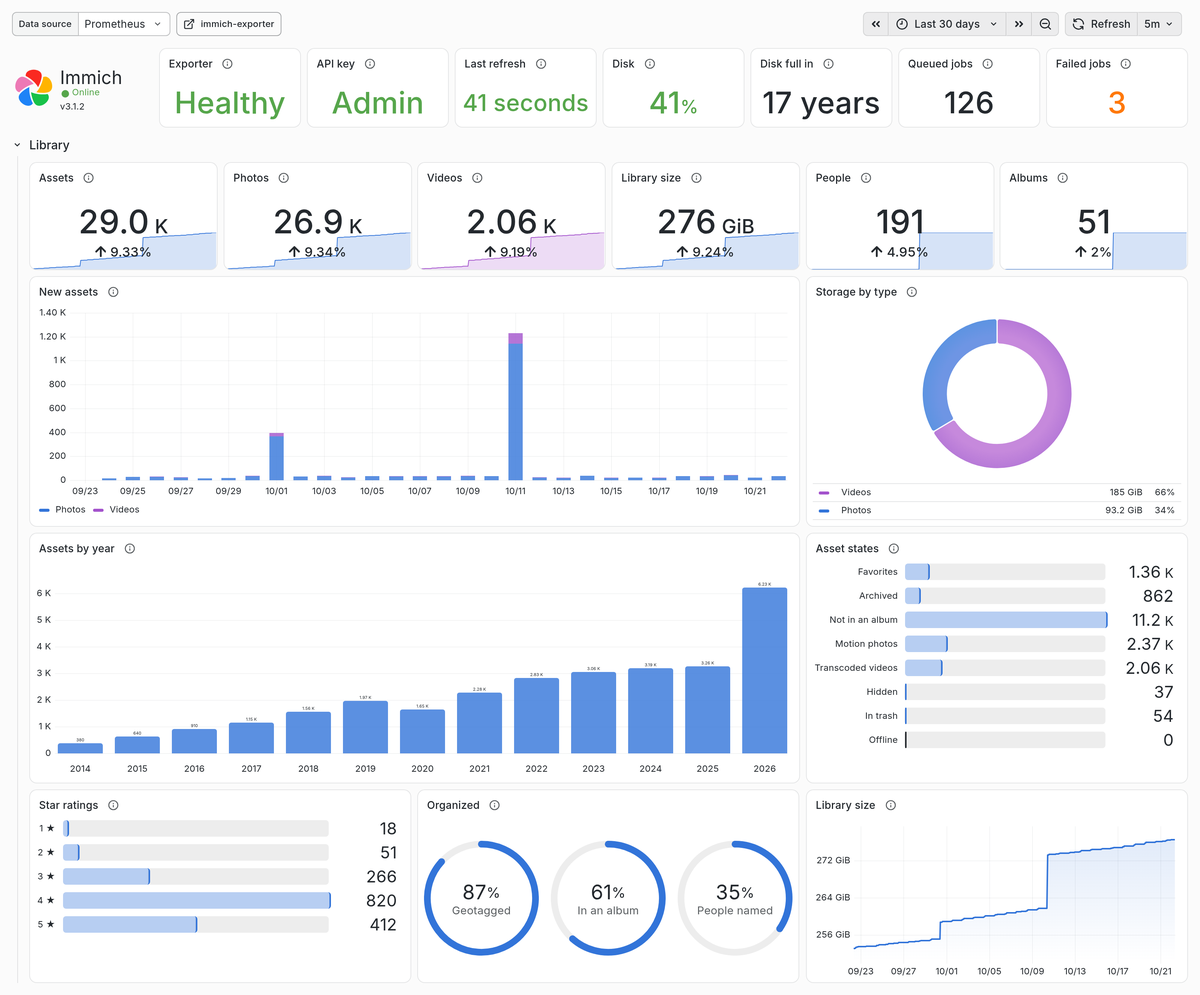
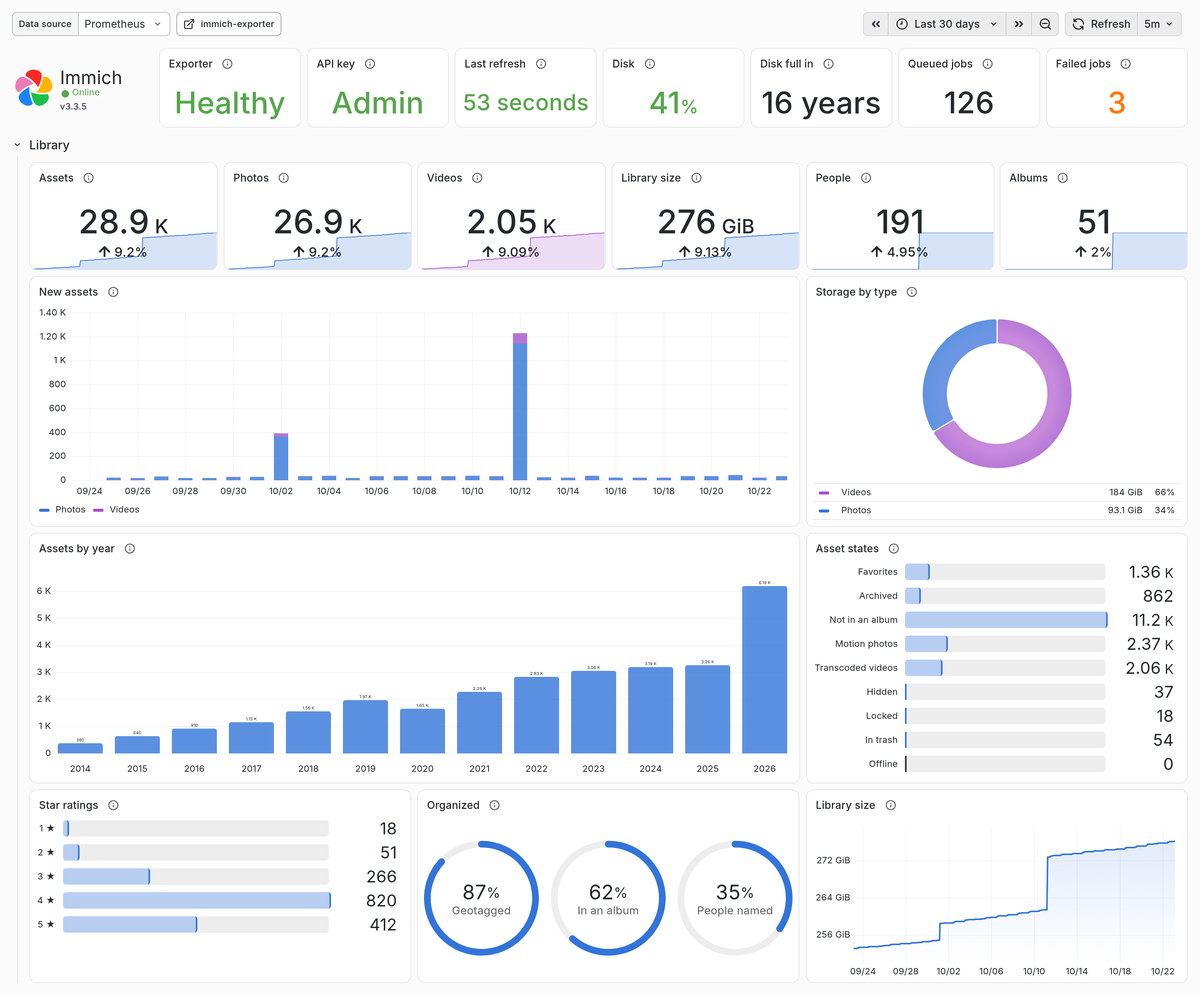
docs: simplify the README and refresh the dashboard screenshots (#27)

diff --git a/grafana/dashboard.go b/grafana/dashboard.go
@@ -642,7 +642,8 @@ func collectors() *panel {
 
 func more(l *layout) {
 	l.section("More", true)
-	l.line(5,
+	// Tall enough for Grafana to lay the tiles out in two rows, wide enough to keep a unit beside its value.
+	l.line(8,
 		span(24, grid("Library extras", "Remaining library counters.",
 			latest("max(immich_tags)", "Tags"),
 			latest("max(immich_tags_root)", "Top-level tags"),

diff --git a/README.md b/README.md
@@ -1,10 +1,10 @@
 # immich-exporter
 
-[![Go CI](https://github.com/moond4rk/immich-exporter/actions/workflows/ci.yml/badge.svg)](https://github.com/moond4rk/immich-exporter/actions/workflows/ci.yml) [![codecov](https://codecov.io/gh/moond4rk/immich-exporter/branch/main/graph/badge.svg)](https://codecov.io/gh/moond4rk/immich-exporter) [![Go Reference](https://pkg.go.dev/badge/github.com/moond4rk/immich-exporter.svg)](https://pkg.go.dev/github.com/moond4rk/immich-exporter) [![Go Report Card](https://goreportcard.com/badge/github.com/moond4rk/immich-exporter)](https://goreportcard.com/report/github.com/moond4rk/immich-exporter) [![License](https://img.shields.io/github/license/moond4rk/immich-exporter)](https://github.com/moond4rk/immich-exporter/blob/main/LICENSE)
+[![Go CI](https://github.com/moond4rk/immich-exporter/actions/workflows/ci.yml/badge.svg)](https://github.com/moond4rk/immich-exporter/actions/workflows/ci.yml) [![codecov](https://codecov.io/gh/moond4rk/immich-exporter/branch/main/graph/badge.svg)](https://codecov.io/gh/moond4rk/immich-exporter) [![Release](https://img.shields.io/github/v/release/moond4rk/immich-exporter)](https://github.com/moond4rk/immich-exporter/releases/latest) [![License](https://img.shields.io/github/license/moond4rk/immich-exporter)](LICENSE)
 
-A comprehensive Prometheus exporter for **Immich photo-library content** — ~100 metrics covering assets, cameras & EXIF, geography, people & faces, per-user storage & quota, albums & sharing, jobs, integrity checks, database backups, and server health. Ships with a large Grafana dashboard (world map included) and ready-made alert rules.
+A Prometheus exporter for what's inside your [Immich](https://immich.app) library: assets, cameras, places, people, storage, jobs and backups. It comes with a Grafana dashboard and alert rules.
 
-It is **complementary to Immich's built-in OpenTelemetry**: Immich's own telemetry exposes _performance_, never library _content_. All data is read from the public Immich REST API with an API key — the database is never touched.
+Immich's built-in telemetry measures how the server performs; this exporter reports what the library holds. It reads the Immich API with an API key and never touches the database.
 
 <picture>
   <source media="(prefers-color-scheme: light)" srcset="docs/images/dashboard-overview-light.webp">
@@ -12,7 +12,7 @@ It is **complementary to Immich's built-in OpenTelemetry**: Immich's own telemet
 </picture>
 
 <details>
-<summary>More of the dashboard: places, cameras, people, albums, users, jobs and server</summary>
+<summary>More screenshots</summary>
 
 <picture>
   <source media="(prefers-color-scheme: light)" srcset="docs/images/dashboard-geography-light.webp">
@@ -49,160 +49,88 @@ It is **complementary to Immich's built-in OpenTelemetry**: Immich's own telemet
   <img alt="Server & exporter" src="docs/images/dashboard-server.webp">
 </picture>
 
-</details>
+<picture>
+  <source media="(prefers-color-scheme: light)" srcset="docs/images/dashboard-more-light.webp">
+  <img alt="More" src="docs/images/dashboard-more.webp">
+</picture>
 
-Screenshots show a synthetic demo library, generated by [`grafana/demo`](grafana/demo).
+The screenshots show a synthetic demo library, generated by [`grafana/demo`](grafana/demo).
+
+</details>
 
 ## Features
 
-- **~100 content metrics** Immich's telemetry doesn't expose — assets by type/year/rating/state/file size, cameras & lenses, geo distribution by country and city, people & faces, per-user storage & quota, albums & shared links, tags, memories, duplicates, stacks, external libraries, workflows, and every job-queue depth.
-- **Immich's own upkeep** — what its integrity checks flagged, its database backups (count, size, age of the newest), maintenance mode, and whether its release check is still fresh (a disabled check no longer reports a false "up to date").
-- **Two-tier polling** with bounded-concurrency fan-out: cheap counters every 2 minutes, and the expensive work (per-camera and per-person breakdowns, the map, duplicates, stacks) every 15. An atomic snapshot is emitted fresh on every scrape, so vanished label combinations never linger as stale series.
-- **Self-diagnosing** — `immich_exporter_collector_success` and `_duration_seconds` per collector, so a key without a permission or an endpoint an older Immich lacks shows up by name instead of as an empty panel.
-- **Admin auto-detection** — full coverage with an admin key, graceful degradation with a non-admin or scoped one.
-- **Single ~13 MB static binary**, distroless `nonroot` image (multi-arch, signed with cosign, SBOM and provenance attached); exports its own `go_*` / `process_*` runtime metrics too.
-- **Batteries included** — Grafana dashboard (~70 panels) and [alert rules](deploy/alerts.yml), both CI-checked on Prometheus and VictoriaMetrics, plus a Docker Compose stack and Kubernetes manifests.
+- **100+ metrics** on library content: assets by type, year, rating and file size, cameras and lenses, countries and cities, people, per-user storage and quota, albums and sharing, and every job queue.
+- **A Grafana dashboard** with 70+ panels and a world map, and **alert rules**. Both are tested on Prometheus and VictoriaMetrics.
+- **Immich's upkeep**: what its integrity checks found, its database backups, maintenance mode and available updates.
+- **Light on your server**: counts refresh every 2 minutes, and the heavier breakdowns every 15.
+- **A small, signed image** for amd64 and arm64 that runs as non-root.
 
 ## Quick start
 
-### Docker
+1. In Immich, create an API key under **Account Settings → API Keys**. An admin account with the `all` permission gets every metric.
+2. Add the exporter to the `docker-compose.yml` that runs Immich, then run `docker compose up -d`. Metrics appear at `http://localhost:8000/metrics`.
 
-```sh
-docker run -d --name immich-exporter -p 8000:8000 \
-  -e IMMICH_HOST=immich-server -e IMMICH_API_TOKEN=<your-key> \
-  ghcr.io/moond4rk/immich-exporter:latest
-```
+   ```yaml
+   services:
+     immich-exporter:
+       image: ghcr.io/moond4rk/immich-exporter:latest
+       environment:
+         IMMICH_HOST: immich-server
+         IMMICH_API_TOKEN: your-api-key
+       ports:
+         - "8000:8000"
+       restart: unless-stopped
+   ```
 
-Metrics are served at `http://localhost:8000/metrics`. Use an **admin** API key (Account Settings → API Keys) for full coverage.
+3. Add a scrape job to Prometheus, pointing at the host that runs the exporter:
 
-### Binary
+   ```yaml
+   scrape_configs:
+     - job_name: immich-exporter
+       static_configs:
+         - targets: ["your-docker-host:8000"]
+   ```
 
-Download from the [releases page](https://github.com/moond4rk/immich-exporter/releases), or install with Go:
+4. In Grafana, import [`grafana/dashboard.json`](grafana/dashboard.json) under **Dashboards → New → Import**, and pick your Prometheus data source.
 
-```sh
-go install github.com/moond4rk/immich-exporter/cmd/immich-exporter@latest
-IMMICH_HOST=immich-server IMMICH_API_TOKEN=<your-key> immich-exporter
-```
-
-### Full monitoring stack
-
-[`deploy/docker-compose.yml`](deploy/docker-compose.yml) brings up the exporter + Prometheus + Grafana with the dashboard and datasource auto-provisioned:
+No Prometheus or Grafana yet? [`deploy/docker-compose.yml`](deploy/docker-compose.yml) starts the exporter, Prometheus and Grafana, with the dashboard and alerts already set up. Grafana then runs on http://localhost:3000 (admin / admin).
 
 ```sh
 cp deploy/.env.example deploy/.env   # set IMMICH_API_TOKEN
 docker compose -f deploy/docker-compose.yml up -d
-# Grafana on http://localhost:3000 → "Immich Library" dashboard
 ```
 
-See [`deploy/`](deploy/) for Kubernetes (Deployment + Service + ServiceMonitor) and a Prometheus scrape example.
-
-### Alerts
-
-[`deploy/alerts.yml`](deploy/alerts.yml) holds alert rules: Immich or the exporter down, polls failing or stale, failing or stalled job queues, a filling or nearly full library volume, offline assets, integrity-check findings, a stale or shrunken database backup, users near their quota, and an available update. The compose stack loads them into Prometheus; for the Prometheus Operator, put the groups under the spec of a `PrometheusRule`; for VictoriaMetrics, pass the file to `vmalert -rule`.
-
-### Immich's own metrics
-
-Immich's built-in OpenTelemetry metrics complement these: enable them with `IMMICH_TELEMETRY_INCLUDE=all` and scrape **both** ports of the server container — `8081` for the API (request latency, database query timings) and `8082` for the microservices worker (job throughput and failures, `immich_jobs_*_total`). Scraping only `8081` misses every job metric.
+The exporter also runs as a binary from the [releases page](https://github.com/moond4rk/immich-exporter/releases), or on Kubernetes with [`deploy/kubernetes.yaml`](deploy/kubernetes.yaml).
 
 ## Configuration
 
-Configuration is layered — each source overrides the one before it:
+Most setups need only a few environment variables:
 
-**built-in defaults → YAML file (`--config.file`) → environment variables → command-line flags**
+| Variable | Default | Description |
+| --- | --- | --- |
+| `IMMICH_HOST` | `localhost` | Immich server host |
+| `IMMICH_PORT` | `2283` | Immich server port |
+| `IMMICH_BASE_URL` | — | Full API URL including `/api`, such as `https://photos.example.com/api`; replaces host and port |
+| `IMMICH_API_TOKEN` | — | The API key; `IMMICH_API_TOKEN_FILE` reads it from a file instead, such as a mounted secret |
+| `SCRAPE_INTERVAL` | `2m` | How often the counts refresh |
+| `BREAKDOWN_INTERVAL` | `15m` | How often cameras, places, people, duplicates and stacks refresh |
+| `COLLECT_PEOPLE` | `false` | Asset counts per person, at one API call per person |
 
-Keep everything in one YAML file and still override a single value with an env var or flag at runtime. Run `immich-exporter --help` for the full list (each flag shows its `$ENV_VAR`).
-
-### YAML config file
-
-Point the exporter at a file with `--config.file=config.yml` (or `IMMICH_CONFIG_FILE`). Every key is optional; omitted keys keep their default, and unknown keys are rejected so typos fail loudly. Full template: [`deploy/config.example.yml`](deploy/config.example.yml).
-
-```yaml
-immich:
-  base_url: http://immich-server:2283/api
-web:
-  listen_address: ":8000"
-scrape: { interval: 2m, breakdown_interval: 15m, request_timeout: 20s }
-collect: { camera: true, geo: true, ratings: true, people: false, heavy: true }
-limits: { topn: 25, fanout_limit: 200, fanout_concurrency: 8, city_limit: 200 }
-```
-
-### Flags & environment variables
-
-| Flag | Env var | Default | Description |
-| --- | --- | --- | --- |
-| `--immich.base-url` | `IMMICH_BASE_URL` | — | Full API base URL incl. `/api`; overrides host/port |
-| `--immich.host` / `--immich.port` | `IMMICH_HOST` / `IMMICH_PORT` | `localhost` / `2283` | Immich location (API served under `/api`) |
-| `--web.listen-address` | `EXPORTER_PORT` | `:8000` | Address/port to listen on |
-| `--web.telemetry-path` | — | `/metrics` | Path to expose metrics under |
-| `--immich.token-file` | `IMMICH_API_TOKEN_FILE` | — | File holding the API token, e.g. a mounted secret |
-| `--scrape-interval` | `SCRAPE_INTERVAL` | `2m` | Cheap-metric poll interval (at least `10s`) |
-| `--breakdown-interval` | `BREAKDOWN_INTERVAL` | `15m` | Refresh interval of the expensive collectors |
-| `--collect.people` | `COLLECT_PEOPLE` | `false` | Per-person stats (one API call per person) |
-| `--topn` / `--fanout.limit` | `TOPN` / `FANOUT_LIMIT` | `25` / `200` | Series cap / max distinct values per breakdown |
-| `--geo.city-limit` | `GEO_CITY_LIMIT` | `200` | Cities kept in `immich_assets_by_city`; the rest sum into `other` (`0` keeps all) |
-| `--log.level` | — | `info` | `debug`, `info`, `warn`, `error` |
-
-<details>
-<summary>More: <code>--collect.camera/geo/ratings/heavy</code>, <code>--request-timeout</code>, <code>--fanout.concurrency</code>, <code>--web.config.file</code></summary>
-
-| Flag | Env var | Default | Description |
-| --- | --- | --- | --- |
-| `--collect.camera` | `COLLECT_CAMERA` | `true` | Per camera make/model/lens breakdowns |
-| `--collect.geo` | `COLLECT_GEO` | `true` | Geo distribution (countries and cities, `/map/markers`) |
-| `--collect.ratings` | `COLLECT_RATINGS` | `true` | Star-rating breakdown |
-| `--collect.heavy` | `COLLECT_HEAVY` | `true` | Duplicates & stacks (whole-library listings) |
-| `--request-timeout` | `REQUEST_TIMEOUT` | `20s` | Per-request HTTP timeout |
-| `--fanout.concurrency` | `FANOUT_CONCURRENCY` | `8` | Concurrent fan-out requests |
-| `--web.config.file` | — | — | [exporter-toolkit web config](https://github.com/prometheus/exporter-toolkit/blob/master/docs/web-configuration.md) for TLS / basic-auth |
-
-> Legacy `*_SECONDS` env vars (`SCRAPE_INTERVAL_SECONDS`, …) and `EXPORTER_PORT` are still honoured, so existing deployments keep working unchanged.
-
-</details>
-
-### API token
-
-The token is the one secret and is **never** a flag (it would show up in `ps`). Provide it, in order of precedence:
-
-1. `IMMICH_API_TOKEN` environment variable (recommended)
-2. A token file — `--immich.token-file`, `IMMICH_API_TOKEN_FILE`, or `immich.token_file` in YAML — for a mounted secret
-3. `immich.token` in YAML — inline (discouraged; easy to commit by accident)
-
-Use an **admin** key with the `all` permission for full coverage (`immich_key_is_admin` is `1`). A non-admin or scoped key degrades gracefully: whatever it may not read reports `immich_exporter_collector_success 0` under that collector's name, and the exporter logs it once.
+Every setting is also a command-line flag and a YAML key: see [docs/configuration.md](docs/configuration.md).
 
 ## Metrics
 
-Every series is prefixed `immich_` (plus standard `go_*` / `process_*`). Gauges unless noted; counters end in `_total`, byte values in `_bytes`. Roughly grouped:
+The series cover the server and the exporter's own health, integrity checks and backups, assets, cameras, places, people and users, albums and sharing, and job queues. [docs/metrics.md](docs/metrics.md) lists them by group, explains what a non-admin key can see, and shows how to add Immich's own performance metrics.
 
-| Group | Example series |
-| --- | --- |
-| Exporter health | `immich_exporter_up`, `immich_exporter_collector_success{collector}`, `immich_exporter_collector_duration_seconds`, `immich_key_is_admin` |
-| Server | `immich_up`, `immich_server_info`, `immich_server_maintenance_mode`, `immich_server_update_available`, `immich_server_version_check_timestamp_seconds` |
-| Integrity & backups | `immich_integrity_issues{type}`, `immich_database_backups`, `immich_database_backup_last_timestamp_seconds`, `immich_database_backup_last_size_bytes` |
-| Assets | `immich_assets`, `immich_assets_by_year`, `immich_assets_by_rating`, `immich_assets_favorite`, `immich_assets_locked`, `immich_assets_by_file_size`¹ |
-| Cameras & EXIF | `immich_assets_by_camera_make`, `_camera_model`, `_lens`, `immich_assets_with_camera`¹ |
-| Geography | `immich_assets_by_country`, `immich_assets_by_city` (with `lat`/`lon`), `immich_assets_geotagged` |
-| People & users | `immich_people`, `immich_person_assets`, `immich_assets_with_people`¹, `immich_user_usage_bytes`, `immich_user_storage_bytes{type}`, `immich_user_quota_bytes` |
-| Albums & sharing | `immich_albums`, `immich_album_top_assets`, `immich_shared_links`, `immich_partners` |
-| Content & jobs | `immich_tags`, `immich_memories`, `immich_duplicate_sets`, `immich_library_assets`, `immich_library_usage_bytes`, `immich_workflows`, `immich_job_queue` |
+## Alerts
 
-¹ Needs Immich 3.2+, whose search filters can express them. They count visible assets (timeline and archive), so they add up to the library size.
+[`deploy/alerts.yml`](deploy/alerts.yml) has alert rules for, among others, Immich or the exporter going down, a failing or stalled job queue, a filling library volume, integrity-check findings and a stale database backup. Load it with `rule_files` in Prometheus, as a `PrometheusRule` with the Prometheus Operator, or with `vmalert -rule`.
 
-Instance-wide volumetrics, integrity checks, backups and job metrics require an **admin** key — `immich_key_is_admin` reports which mode you're in. Counts from Immich's search (states, ratings, years, cameras, places, file sizes) cover the key owner's library, and except for ¹ they include the hidden video half of each live photo, so they can exceed `immich_assets`. Scrape `/metrics` for the full set; liveness is at `/healthz`.
+## Contributing
 
-## Building
-
-```sh
-go build -o immich-exporter ./cmd/immich-exporter
-go test -race ./...
-golangci-lint run
-```
-
-See [CONTRIBUTING.md](CONTRIBUTING.md) for the dev workflow and [SECURITY.md](SECURITY.md) for the security policy — notably, don't expose `/metrics` publicly, as it carries library metadata (user/people/album names, geo centroids).
-
-## Disclaimer
-
-Unofficial community project, **not affiliated with or endorsed by the Immich project**.
+See [CONTRIBUTING.md](CONTRIBUTING.md). Report vulnerabilities as described in [SECURITY.md](SECURITY.md), and don't expose `/metrics` publicly: it carries user, people and album names and places.
 
 ## License
 
-[Apache-2.0](LICENSE)
+[Apache-2.0](LICENSE). An unofficial community project, not affiliated with or endorsed by the Immich project.

diff --git a/docs/configuration.md b/docs/configuration.md
@@ -1,0 +1,65 @@
+# Configuration
+
+Settings come from four layers, and each overrides the one before it:
+
+**built-in defaults → YAML file → environment variables → command-line flags**
+
+Keep everything in one YAML file and still override a single value with an environment variable or a flag. `immich-exporter --help` lists every flag with its environment variable.
+
+## API key
+
+The API key is the one secret, so it is never a flag, which would show it in `ps`. The exporter reads it from, in order of precedence:
+
+1. The `IMMICH_API_TOKEN` environment variable (recommended).
+2. A file named by `--immich.token-file`, `IMMICH_API_TOKEN_FILE` or `immich.token_file` in YAML, such as a mounted secret.
+3. `immich.token` in the YAML file. Avoid it, since it is easy to commit by accident.
+
+Create the key in Immich under **Account Settings → API Keys**. An admin key with the `all` permission collects every metric, and `immich_key_is_admin` reports `1`. A non-admin or scoped key still works: whatever it may not read reports `immich_exporter_collector_success 0` under that collector's name, and the exporter logs it once.
+
+## Flags and environment variables
+
+| Flag | Environment variable | Default | Description |
+| --- | --- | --- | --- |
+| `--config.file` | `IMMICH_CONFIG_FILE` | — | YAML config file |
+| `--immich.base-url` | `IMMICH_BASE_URL` | — | Full API base URL including `/api`; overrides host and port |
+| `--immich.host` | `IMMICH_HOST` | `localhost` | Immich server host; the API is served under `/api` |
+| `--immich.port` | `IMMICH_PORT` | `2283` | Immich server port |
+| `--immich.token-file` | `IMMICH_API_TOKEN_FILE` | — | File holding the API key, such as a mounted secret |
+| `--scrape-interval` | `SCRAPE_INTERVAL` | `2m` | How often the cheap counts refresh |
+| `--breakdown-interval` | `BREAKDOWN_INTERVAL` | `15m` | How often cameras, places, people, duplicates and stacks refresh |
+| `--request-timeout` | `REQUEST_TIMEOUT` | `20s` | Timeout of each API request |
+| `--collect.camera` | `COLLECT_CAMERA` | `true` | Camera make, model and lens breakdowns |
+| `--collect.geo` | `COLLECT_GEO` | `true` | Countries and cities, from `/map/markers` |
+| `--collect.ratings` | `COLLECT_RATINGS` | `true` | Star-rating breakdown |
+| `--collect.people` | `COLLECT_PEOPLE` | `false` | Asset counts per person, at one API call per person |
+| `--collect.heavy` | `COLLECT_HEAVY` | `true` | Duplicates and stacks, which list the whole library |
+| `--topn` | `TOPN` | `25` | Series cap for the model, lens, person and album breakdowns |
+| `--fanout.limit` | `FANOUT_LIMIT` | `200` | Skip a breakdown with more distinct values than this |
+| `--fanout.concurrency` | `FANOUT_CONCURRENCY` | `8` | Concurrent fan-out requests |
+| `--geo.city-limit` | `GEO_CITY_LIMIT` | `200` | Cities kept in `immich_assets_by_city`; the rest sum into `other` (`0` keeps all) |
+| `--web.listen-address` | — | `:8000` | Address to listen on |
+| `--web.telemetry-path` | — | `/metrics` | Path of the metrics endpoint |
+| `--web.config.file` | — | — | [exporter-toolkit web config](https://github.com/prometheus/exporter-toolkit/blob/master/docs/web-configuration.md) for TLS and basic auth |
+| `--log.level` | — | `info` | `debug`, `info`, `warn` or `error` |
+| `--log.format` | — | `logfmt` | `logfmt` or `json` |
+
+Both intervals must be at least `10s`.
+
+Older deployments keep working unchanged:
+
+- `EXPORTER_PORT` still sets the listen port.
+- `SCRAPE_INTERVAL_SECONDS`, `BREAKDOWN_INTERVAL_SECONDS` and `REQUEST_TIMEOUT_SECONDS` still set those durations in whole seconds.
+
+## YAML file
+
+Point the exporter at a file with `--config.file=config.yml` or `IMMICH_CONFIG_FILE`. Every key is optional, and an omitted key keeps its default. An unknown key is rejected, so a typo fails loudly. [`deploy/config.example.yml`](../deploy/config.example.yml) is a full template.
+
+```yaml
+immich:
+  base_url: http://immich-server:2283/api
+web:
+  listen_address: ":8000"
+scrape: { interval: 2m, breakdown_interval: 15m, request_timeout: 20s }
+collect: { camera: true, geo: true, ratings: true, people: false, heavy: true }
+limits: { topn: 25, fanout_limit: 200, fanout_concurrency: 8, city_limit: 200 }
+```

diff --git a/docs/metrics.md b/docs/metrics.md
@@ -1,0 +1,30 @@
+# Metrics
+
+Every series starts with `immich_`, next to the standard `go_*` and `process_*` series. They are gauges unless noted: counters end in `_total`, and byte values in `_bytes`. Scrape `/metrics` for the full set; `/healthz` answers liveness checks.
+
+| Group | Example series |
+| --- | --- |
+| Exporter health | `immich_exporter_up`, `immich_exporter_collector_success{collector}`, `immich_exporter_collector_duration_seconds`, `immich_key_is_admin` |
+| Server | `immich_up`, `immich_server_info`, `immich_server_maintenance_mode`, `immich_server_update_available`, `immich_server_version_check_timestamp_seconds` |
+| Integrity & backups | `immich_integrity_issues{type}`, `immich_database_backups`, `immich_database_backup_last_timestamp_seconds`, `immich_database_backup_last_size_bytes` |
+| Assets | `immich_assets`, `immich_assets_by_year`, `immich_assets_by_rating`, `immich_assets_favorite`, `immich_assets_locked`, `immich_assets_by_file_size`¹ |
+| Cameras & EXIF | `immich_assets_by_camera_make`, `_camera_model`, `_lens`, `immich_assets_with_camera`¹ |
+| Geography | `immich_assets_by_country`, `immich_assets_by_city` (with `lat`/`lon`), `immich_assets_geotagged` |
+| People & users | `immich_people`, `immich_person_assets`, `immich_assets_with_people`¹, `immich_user_usage_bytes`, `immich_user_storage_bytes{type}`, `immich_user_quota_bytes` |
+| Albums & sharing | `immich_albums`, `immich_album_top_assets`, `immich_shared_links`, `immich_partners` |
+| Content & jobs | `immich_tags`, `immich_memories`, `immich_duplicate_sets`, `immich_library_assets`, `immich_library_usage_bytes`, `immich_workflows`, `immich_job_queue` |
+
+¹ Needs Immich 3.2+, whose search filters can express them. They count visible assets (timeline and archive), so they add up to the library size.
+
+## What the API key can see
+
+Instance-wide volumetrics, integrity checks, backups and job metrics need an **admin** key; `immich_key_is_admin` reports which kind is in use. Counts from Immich's search (states, ratings, years, cameras, places, file sizes) cover the key owner's library. Except for ¹, they include the hidden video half of each live photo, so they can exceed `immich_assets`.
+
+## Immich's own metrics
+
+Immich's built-in OpenTelemetry metrics complement these: they measure performance, where this exporter reports content. Enable them with `IMMICH_TELEMETRY_INCLUDE=all` and scrape **both** ports of the server container:
+
+- `8081` for the API: request latency and database query timings.
+- `8082` for the microservices worker: job throughput and failures (`immich_jobs_*_total`).
+
+Scraping only `8081` misses every job metric.

diff --git a/CONTRIBUTING.md b/CONTRIBUTING.md
@@ -32,7 +32,7 @@ go test -race ./...
 ```
 
 - Keep code self-documenting; comments explain _why_, not _what_.
-- **New metrics:** add the descriptor in `internal/exporter/collector.go`, emit it, register it in `allDescs`, document it in the README metrics tables, and prefer gauges (no `_total` suffix unless the value only ever increases).
+- **New metrics:** add the descriptor in `internal/exporter/collector.go`, emit it, register it in `allDescs`, document it in [`docs/metrics.md`](docs/metrics.md), and prefer gauges (no `_total` suffix unless the value only ever increases).
 - **Watch label cardinality.** Breakdowns that can explode must respect `TOPN`, `FANOUT_LIMIT` or `GEO_CITY_LIMIT` like the existing camera, person and city breakdowns.
 - **The Immich client stays read-only** (`GET`, plus `POST /search/statistics` which is a read-only count query). The exporter must never mutate a library.
 - **Collectors** run through `r.soft(...)` or `r.hard(...)` in `poll.go`, which records `immich_exporter_collector_success` and its duration under the collector's name. Admin-only or version-dependent endpoints use `soft` so the exporter degrades gracefully on non-admin keys and older Immich versions; a 403 or 404 never fails the poll, even for a `hard` collector. Anything that pages through the whole library or fans out per value belongs in `collectBreakdowns`, which refreshes on `BREAKDOWN_INTERVAL`.

diff --git a/.github/PULL_REQUEST_TEMPLATE.md b/.github/PULL_REQUEST_TEMPLATE.md
@@ -8,6 +8,6 @@
 - [ ] `go vet ./...` passes
 - [ ] `golangci-lint run` passes
 - [ ] `go test -race ./...` passes
-- [ ] New/changed metrics are documented in the README tables
+- [ ] New/changed metrics are documented in `docs/metrics.md`
 - [ ] Label cardinality is bounded (respects `TOPN` / `FANOUT_LIMIT` where relevant)
 - [ ] The Immich client remains read-only
